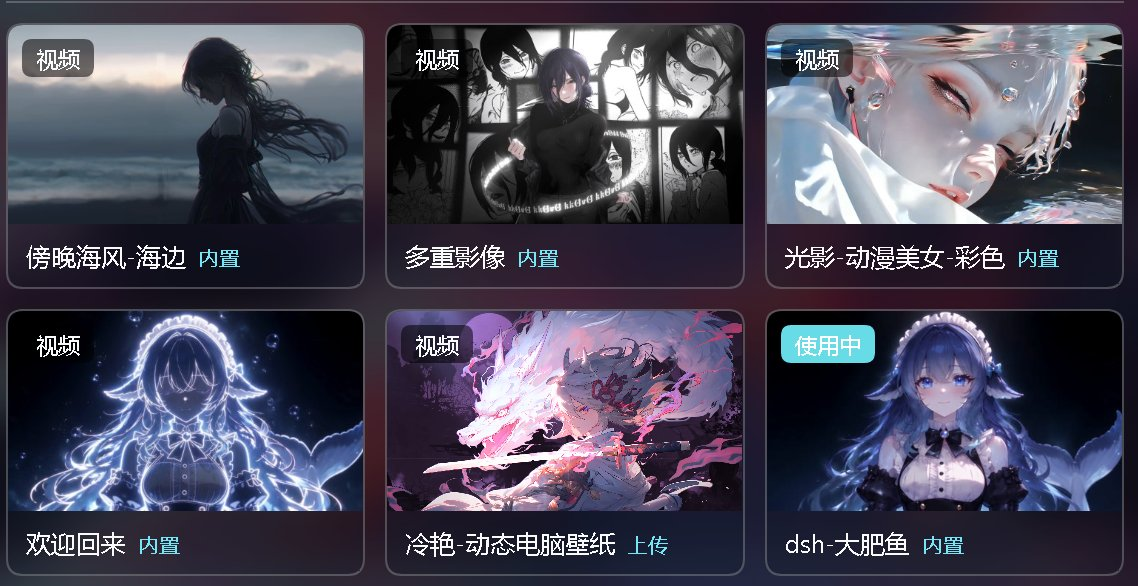
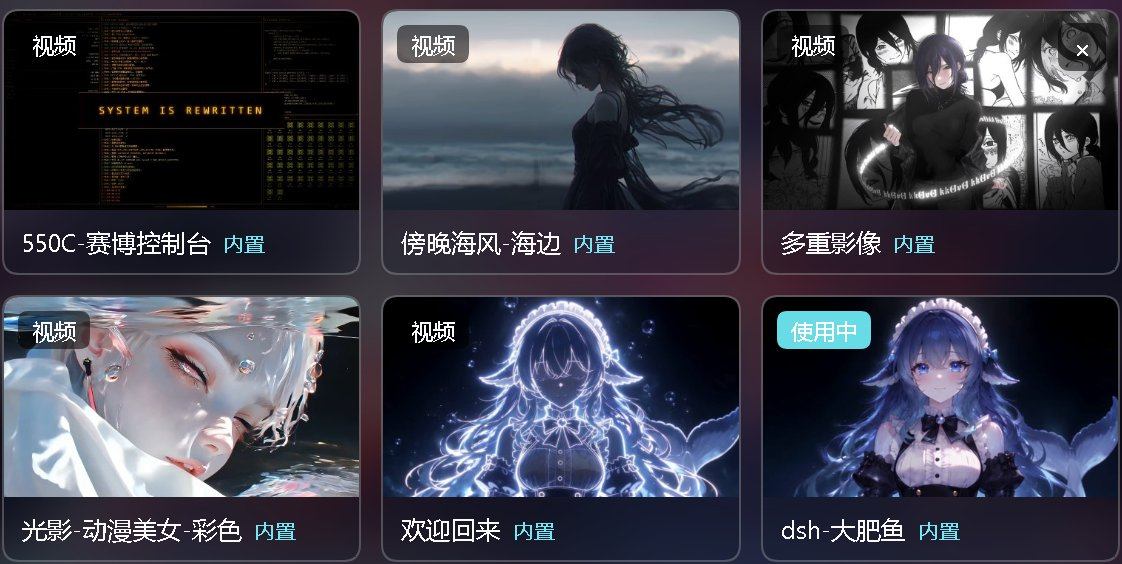
docs: 换成 6 段视频的素材库截图，补一句素材来源致谢
- docs/library.jpg 换成加了《550C-赛博控制台》之后的版本（1122×564），
  README 里 img 高度跟着从 268 调到 261（按 520 宽等比算的，不调会被压扁）。
- README「内置素材库」补一条注记：所有素材均来自网络，感谢各位 UP 主的优秀作品；
  仅作演示，版权归原作者所有，商业再分发前先看 ASSETS.md。
- ASSETS.md 开头同样补上这句致谢。

纯文档改动：不升版本、不重发 Release（AGENTS.md 第 4 条）。

diff --git a/ASSETS.md b/ASSETS.md
@@ -2,6 +2,9 @@
 
 `builtin/` 里的素材用于演示插件能力，**全部来自网络**，仅作展示用途。
 
+**感谢各位 UP 主的优秀作品** —— 这些视频、壁纸和语音都是他们创作的，本插件只是把它们
+拿来做启动画面的演示载体。版权归原作者所有。
+
 本文件记录的是它们当前的用途与处理方式，**不构成任何授权声明**。这些素材的版权归各自
 作者所有；如果你打算在商业场景下再分发本插件，请自行确认每一个文件的授权，或直接
 替换成你有权使用的素材（做法见文末）。
